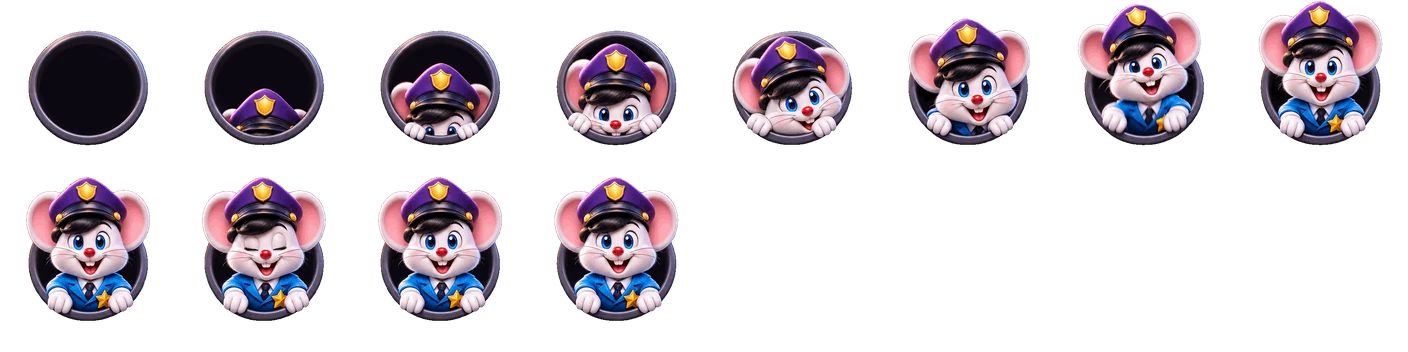
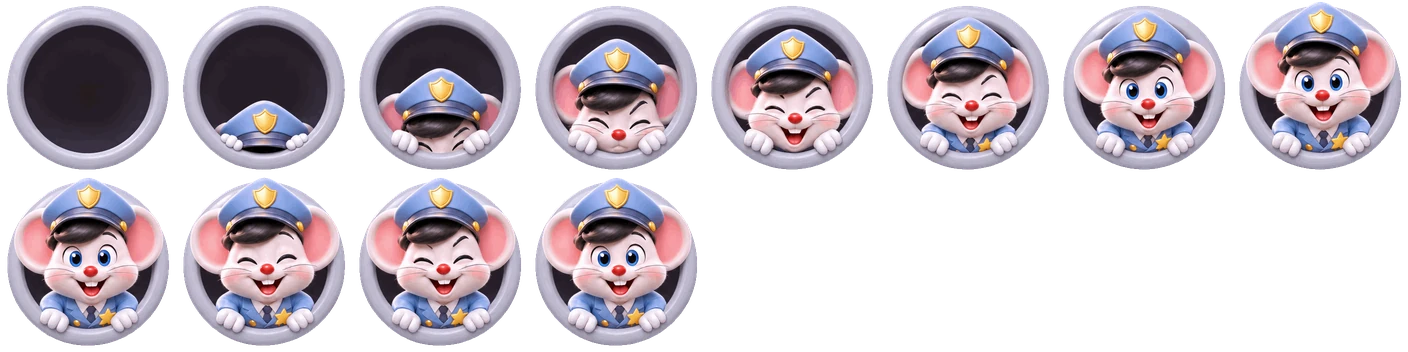
Pastel polis fare: yeni çıkış ve idle animasyonları
Claude-Session: https://claude.ai/code/session_015fAnPLyyscE4qEgf9pzoLb

diff --git a/index.html b/index.html
@@ -152,7 +152,7 @@ img{-webkit-user-drag:none;user-select:none;-webkit-user-select:none;-webkit-tou
 
 /* fare: halka çapı = kare genişliği; sprite kutusu karenin %148'i, ortalı */
 .pet{
-  position:absolute;left:50%;top:50%;width:112.1%;aspect-ratio:1;
+  position:absolute;left:50%;top:50%;width:82.5%;aspect-ratio:1;
   transform:translate(-50%,-50%);pointer-events:none;
   background-repeat:no-repeat;
   filter:drop-shadow(0 .5em .6em rgba(0,0,0,.45));
